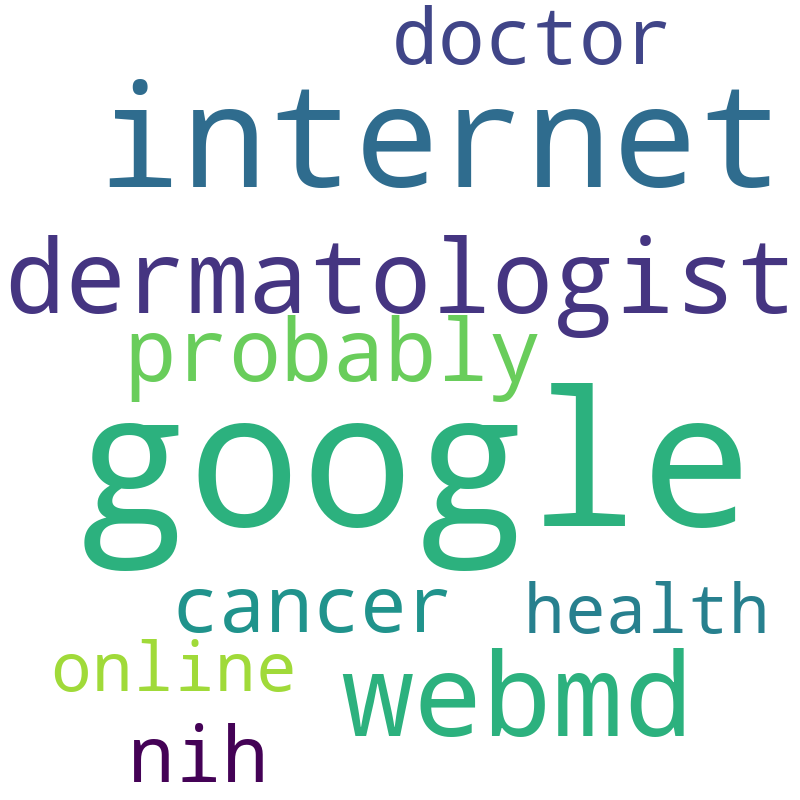
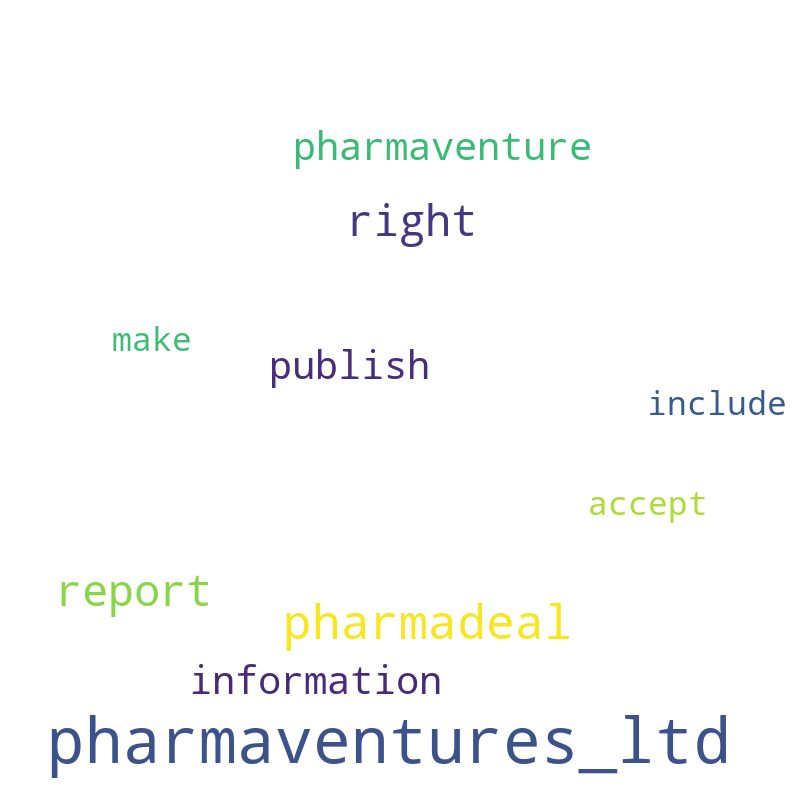
parse pdf update

diff --git a/app/app.py b/app/app.py
@@ -1,5 +1,6 @@
 
 import itertools
+import spacy
 from spacy.lang.en import English, stop_words
 import pandas 
 import string
@@ -11,11 +12,15 @@ import gensim.corpora as corpora
 from gensim.utils import simple_preprocess
 from gensim.models import CoherenceModel
 
-from pprint import pprint
+#from pprint import pprint
+import pprint
+import random
 
-nlp = English()
+#nlp = English()
 
-data_path = "/data/cleaned data - At-Risk Population Surveys.csv"
+nlp = spacy.load('en_core_web_sm', disable=['parser', 'ner'])
+#data_path = "/data/cleaned data - At-Risk Population Surveys.csv"
+data_path = "/data/How to Engineer Impact with Data.csv"
 
 def calc_age(df):
 
@@ -60,6 +65,19 @@ def get_tokens(text):
         my_tokens.remove("self")
         my_tokens.remove("check")
         my_tokens.append("selfcheck")
+    if "data" in my_tokens:
+        print("data")
+        my_tokens.remove("data")
+
+    if "science" in my_tokens:
+        print("science")
+        my_tokens.remove("science")
+
+    if "machine" in my_tokens and "learning" in my_tokens:
+        my_tokens.remove("machine")
+        my_tokens.remove("learning")
+        my_tokens.append("machine learning")
+
 
     #print(my_tokens)
     return my_tokens
@@ -67,9 +85,16 @@ def get_tokens(text):
 
 def generate_word_cloud(final_tokens):
 
+    dummy_list = list()
+    for key, value in final_tokens.items():
+        dummy_list.extend([key] * value)
+
+    random.shuffle(dummy_list)
+    funk = ", ".join(dummy_list)
+  
     wordcloud = WordCloud(width = 800, height = 800, 
                 background_color ='white', 
-                min_font_size = 10).generate(final_tokens) 
+                min_font_size = 10).generate(funk) 
   
     # plot the WordCloud image                        
     plt.figure(figsize = (8, 8), facecolor = None) 
@@ -80,34 +105,42 @@ def generate_word_cloud(final_tokens):
 
 
 def parse_lda_results(lda_model):
-    final = []
+    '''
+
+    '''
+    final = {}
     lda_results = lda_model.show_topics()[0][1]
 
     split_results = lda_results.split("+")
 
     for result in split_results:
-        entry = result.split('*"')[1].replace('"', " ").strip()
-        final.append(entry)
+        weight,entry  = result.split('*"')#[1].replace('"', " ").strip()
+        entry = entry.replace('"', " ").strip()
+        weight = int(float(weight)* 1000)
+
+        if weight < 1:
+            weight = 1
+
+        final[entry] = weight
+      
      
 
     return final
 
-if __name__ == "__main__":
 
+def depreciated():
     df = pandas.read_csv(data_path)
 
-    results = calc_age(df)
+    #results = calc_age(df)
 
-    results["do you have dermatologist"] = calc_affirmative_percentage(df, "Do you have a dermatologist?", "yes")
+  #  results["do you have dermatologist"] = calc_affirmative_percentage(df, "Do you have a dermatologist?", "yes")
     #print(results["do you have dermatologist"])
 
     # token_df = df["How do you currently keep track of skin changes?"].apply(get_tokens) 
-    token_df = df["Where would you go to learn about Melanoma?"].apply(get_tokens) 
-
+   # token_df = df["Where would you go to learn about Melanoma?"].apply(get_tokens) 
+    token_df = df["What does Data Science mean to you?"].apply(get_tokens) 
 
     joined_tokens = list(itertools.chain.from_iterable(token_df.tolist()))
-
- 
 
     #final_tokens = " ".join(joined_tokens)
 
@@ -116,6 +149,7 @@ if __name__ == "__main__":
    # print(joined_tokens)
 
     corpus = [words.doc2bow(doc) for doc in [joined_tokens]]
+
 
     lda_model = gensim.models.ldamodel.LdaModel(corpus=corpus,
                                            id2word=words,
@@ -126,7 +160,7 @@ if __name__ == "__main__":
                                            alpha='auto',
                                            per_word_topics=True)
 
-#    pprint(lda_model.print_topics(num_words=10))
+    pprint(lda_model.print_topics(num_words=10))
     lda_results = parse_lda_results(lda_model)
 
     final_results = []
@@ -135,3 +169,175 @@ if __name__ == "__main__":
             final_results.append(token)
 
     generate_word_cloud(" ".join(final_results))
+
+
+def create_bigram_trigram_models(data_words):
+    '''
+    data_words, list of lists, every element is an "article"
+    '''
+
+    # Build the bigram and trigram models
+    bigram = gensim.models.Phrases(data_words, min_count=2, threshold=50) # higher threshold fewer phrases.
+    trigram = gensim.models.Phrases(bigram[data_words], threshold=100)  
+
+ 
+
+    # Faster way to get a sentence clubbed as a trigram/bigram
+    bigram_mod = gensim.models.phrases.Phraser(bigram)
+    trigram_mod = gensim.models.phrases.Phraser(trigram)
+
+    return bigram_mod, trigram_mod
+
+def tokenize(text):
+    # Removing stop words and punctuations
+    #my_tokens = [ word for word in my_tokens if word not in stop_words.STOP_WORDS and word not in punctuations and "u0" not in word and word != "t" ]
+
+    tokens = gensim.utils.simple_preprocess(text, deacc=True)
+ 
+    return tokens
+
+def clean_text(text):
+    no_stopwords = remove_stopwords(text)
+    bigrams = make_bigrams(no_stopwords)
+
+    lemmatized = lemmatization(bigrams)
+    
+    return lemmatized
+
+def remove_stopwords(tokens):
+    return [ word for word in tokens if word not in stop_words.STOP_WORDS and "u0" not in word and word != "t" and word != "andme" and word != "base" ]
+    #return [[word for word in simple_preprocess(str(doc)) if word not in stop_words] for doc in texts]
+
+def make_bigrams(tokens):
+    return bigram_mod[tokens]
+
+def make_trigrams(tokens):
+    return trigram_mod[bigram_mod[tokens]]
+
+def lemmatization(tokens, allowed_postags=['NOUN', 'ADJ', 'VERB', 'ADV']):
+    """https://spacy.io/api/annotation"""
+    texts_out = []
+    # for sent in texts:
+    doc = nlp(" ".join(tokens)) 
+    
+    return [token.lemma_ for token in doc if token.lemma_ != "datum"] 
+
+def process_topics(all_data, articles):
+
+    # Create Dictionary
+    id2word = corpora.Dictionary(articles)
+
+    # Term Document Frequency
+    corpus = [id2word.doc2bow(text) for text in articles]  
+
+    lda_model = gensim.models.ldamodel.LdaModel(corpus=corpus,
+                                                id2word=id2word,
+                                                num_topics=10, 
+                                                random_state=100,
+                                                update_every=1,
+                                                chunksize=100,
+                                                passes=10,
+                                                alpha='auto',
+                                                per_word_topics=True)
+
+    #pprint(lda_model.print_topics())
+    return lda_model
+
+
+
+def process_survey():
+    df = pandas.read_csv(data_path)
+
+    ds_meaning_df = df["What does Data Science mean to you?"].apply(tokenize) 
+
+    ds_examples_df =  df["What is an example of Data Science?"].apply(tokenize) 
+
+    all_data_corpus = ds_examples_df.tolist()
+    all_data_corpus.extend(ds_meaning_df.tolist())
+
+    bigram_mod, trigram_mod = create_bigram_trigram_models(all_data_corpus)
+
+    # not the most efficient but easier to read
+    cleaned_all_data_corpus = list()
+    for article in all_data_corpus:
+        cleaned_article = clean_text(article)
+        cleaned_all_data_corpus.append(cleaned_article)
+
+    # process ds examples 
+    cleaned_ds_examples = ds_meaning_df.apply(clean_text)
+
+    lda_model = process_topics(cleaned_all_data_corpus, cleaned_ds_examples.tolist())
+
+    pprint(lda_model.print_topics())
+    p_r = parse_lda_results(lda_model)
+
+    #print(p_r)
+    generate_word_cloud(p_r)
+    # # Compute Perplexity
+    # print('\nPerplexity: ', lda_model.log_perplexity(corpus))  # a measure of how good the model is. lower the better.
+
+    # # Compute Coherence Score
+    # coherence_model_lda = CoherenceModel(model=lda_model, texts=data_lemmatized, dictionary=id2word, coherence='c_v')
+    # coherence_lda = coherence_model_lda.get_coherence()
+    # print('\nCoherence Score: ', coherence_lda)
+
+def process_pdf_text():
+    data_path = "/results/parsed_pdf.csv"
+    df = pandas.read_csv(data_path)
+    print(df.columns)
+
+    ds_text_df = df["text "].apply(tokenize) 
+
+    all_data_corpus = ds_text_df.tolist() 
+
+    bigram_mod, trigram_mod = create_bigram_trigram_models(all_data_corpus)
+
+    # not the most efficient but easier to read
+    cleaned_all_data_corpus = list()
+    for article in all_data_corpus:
+        cleaned_article = clean_text(article )
+        cleaned_all_data_corpus.append(cleaned_article)
+
+    # process ds examples 
+    cleaned_ds_examples = ds_text_df.apply(clean_text)
+
+    lda_model = process_topics(cleaned_all_data_corpus, cleaned_ds_examples.tolist())
+
+    pprint(lda_model.print_topics())
+    p_r = parse_lda_results(lda_model)
+
+    #print(p_r)
+    generate_word_cloud(p_r)    
+
+if __name__ == "__main__":
+    #process_survey()
+    # process_pdf_text()
+    data_path = "/results/parsed_pdf.csv"
+    df = pandas.read_csv(data_path)
+    print(df.columns)
+
+    ds_text_df = df["text "].apply(tokenize) 
+
+    all_data_corpus = ds_text_df.tolist() 
+
+    bigram_mod, trigram_mod = create_bigram_trigram_models(all_data_corpus)
+
+    # not the most efficient but easier to read
+    cleaned_all_data_corpus = list()
+    for article in all_data_corpus:
+        cleaned_article = clean_text(article )
+        cleaned_all_data_corpus.append(cleaned_article)
+
+    # process ds examples 
+    cleaned_ds_examples = ds_text_df.apply(clean_text)
+
+    lda_model = process_topics(cleaned_all_data_corpus, cleaned_ds_examples.tolist())
+
+    #pprint(lda_model.print_topics())
+    with open("/results/pdf_topics.txt", "w") as fh:
+        
+        fh.write(pprint.pformat(lda_model.print_topics()))
+    p_r = parse_lda_results(lda_model)
+
+    #print(p_r)
+    generate_word_cloud(p_r)    

diff --git a/app/parse_pdf.py b/app/parse_pdf.py
@@ -1,0 +1,40 @@
+
+import camelot
+import PyPDF2
+import json
+
+data_path = "/data/test_pdf_2.pdf"
+
+def extract_tables():
+    tables = camelot.read_pdf(data_path, pages="17", flavor="stream")
+    tables[0].to_csv("/results/results2.csv")
+
+
+if __name__ == "__main__":
+    with open(data_path, 'rb') as pdfFileObj:
+
+        pdfReader = PyPDF2.PdfFileReader(pdfFileObj)
+
+        # printing number of pages in pdf file 
+        print(pdfReader.numPages) 
+        
+        # creating a page object 
+        pageObj = pdfReader.getPage(0) 
+        
+        # extracting text from page 
+
+        page_text = []
+        page_text.append("page,text")
+        for page_index in range(pdfReader.numPages):
+            pageObj = pdfReader.getPage(page_index)
+            extracted_text = pageObj.extractText().replace("\n", " ").replace(",", " ")
+            page_text.append("{}, {}".format(page_index, extracted_text))
+
+        #saving text
+        with open("/results/parsed_pdf.csv", "wb") as fh:
+                        
+            #json_text = json.dumps(page_text)
+
+            formatted_text = "\n".join(page_text)
+
+            fh.write(formatted_text.encode(encoding='utf-8', errors="ignore"))#all_text.encode(encoding='utf-8', errors="ignore")) 
